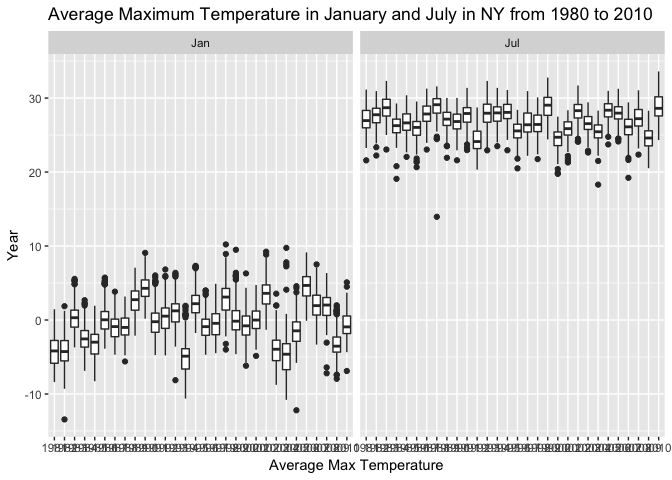
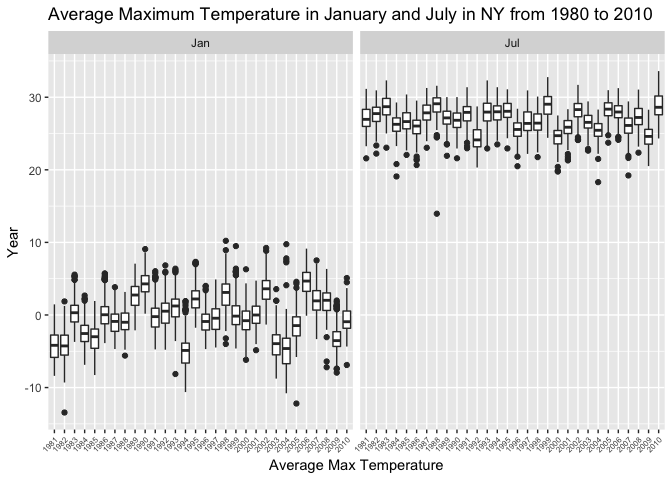
adjust theme

diff --git a/p8105_hw3_hy2580.md b/p8105_hw3_hy2580.md
@@ -281,7 +281,8 @@ ny_noaa_tidy %>%
   ggplot(aes(year,mean, group = year)) +
   geom_boxplot() +
   facet_grid(~ month) +
-  labs(x = "Average Max Temperature", y = "Year", title = "Average Maximum Temperature in January and July in NY from 1980 to 2010")
+  labs(x = "Average Max Temperature", y = "Year", title = "Average Maximum Temperature in January and July in NY from 1980 to 2010") +
+  theme(axis.text.x = element_text(size = 6, angle = 45, hjust = 1))
 ```
 
     ## Warning: Removed 5970 rows containing non-finite values (stat_boxplot).
@@ -314,7 +315,7 @@ plot_snow = ny_noaa_tidy %>%
   labs(x = "Year", 
        y = "Distribution of Snowfall(mm)",
        title = "Distribution of Snowfall") +
-   theme(axis.text.x = element_text(angle = 45))
+   theme(axis.text.x = element_text(size = 6, angle = 45, hjust = 1))
 ```
 
 ``` r
@@ -325,4 +326,4 @@ plot_snow + plot_temp
 
 Above plot showed the distribution of snowfall and the Maximum vs. Minimum temperature for the full dataset. The distribution of snowfall doesn't varies much by year. and the outliers in two plots matches each other which indicate that there are some extremely cold year that cause more snowfall.
 
-The ny noaa data has 9rows and 2595176columns, they key variables are snowfall, precipitation, maximum temperature and minimum temperature. The data is structure so that we have the observations of variables at each observation points. The missing datas will have more effect on variables like snowfall which has little observations greater than zero.
+The ny noaa data has 9columns and 2595176rows, they key variables are snowfall, precipitation, maximum temperature and minimum temperature. The data is structure so that we have the observations of variables at each observation points. The missing datas will have more effect on variables like snowfall which has little observations greater than zero.
